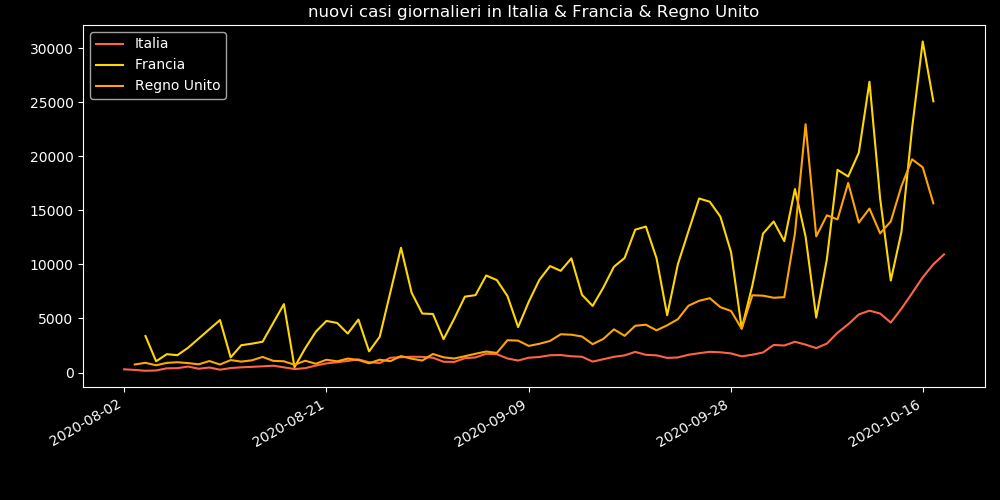
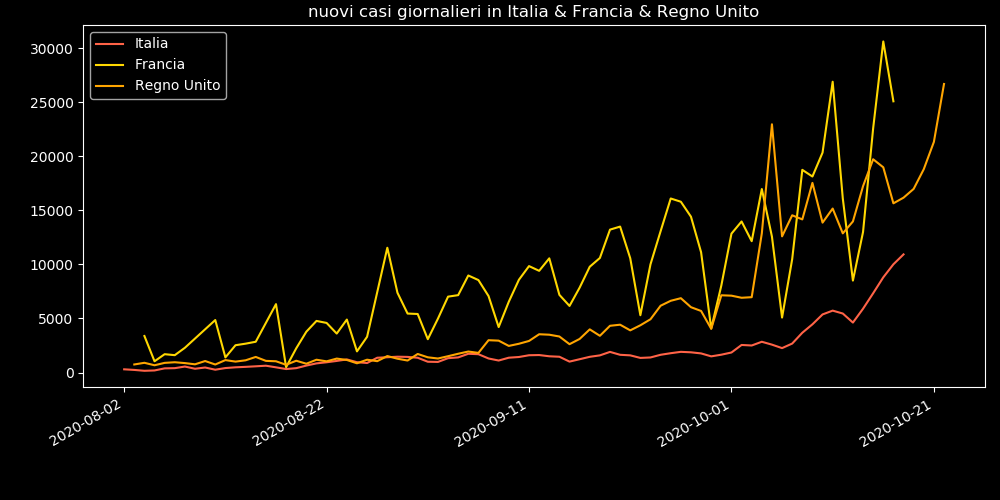
auto update: 2020_10_23

diff --git a/README.md b/README.md
@@ -1,7 +1,7 @@
 
 # COVID-autumn-forecast
 Alcune Statistiche sul covid in Italia, Francia & Inghilterra
-ultimo aggiornamento --> 2020-10-18
+ultimo aggiornamento --> 2020-10-23
 Fonte dei dati sull' italia: [pcm-dpc covid repository](https://github.com/pcm-dpc/COVID-19/blob/master/dati-json/dpc-covid19-ita-regioni.json)
 Altre fonti: [Francia]('https://raw.githubusercontent.com/opencovid19-fr/data/master/dist/chiffres-cles.json'),  [Regno Unito](https://api.coronavirus.data.gov.uk/v1)
 
